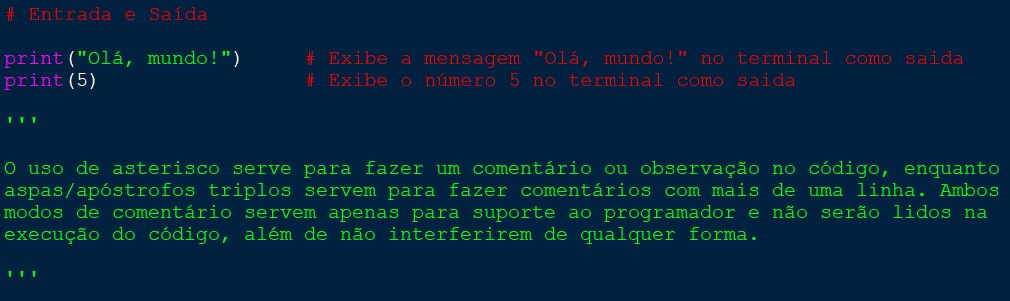
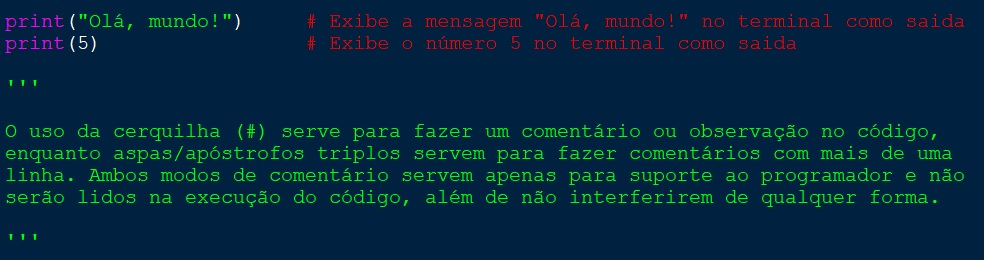
versão teste

diff --git a/code/resumo.py b/code/resumo.py
@@ -9,10 +9,10 @@ print(5)                 # Exibe o número 5 no terminal como saida
 
 '''
 
-O uso de asterisco serve para fazer um comentário ou observação no código, enquanto
-aspas/apóstrofos triplos servem para fazer comentários com mais de uma linha. Ambos
-modos de comentário servem apenas para suporte ao programador e não serão lidos na
-execução do código, além de não interferirem de qualquer forma.
+O uso da cerquilha (#) serve para fazer um comentário ou observação no código,
+enquanto aspas/apóstrofos triplos servem para fazer comentários com mais de uma
+linha. Ambos modos de comentário servem apenas para suporte ao programador e não
+serão lidos na execução do código, além de não interferirem de qualquer forma.
 
 '''
 

diff --git a/code/connect.php b/code/connect.php
@@ -2,7 +2,7 @@
 
 	$host = '127.0.0.1';
 	$bd = 'teste';
-	$usuariobd = 'root';
+	$userbd = 'root';
 	$senhabd = '';
 
 	$nome = $_POST['nome'] ?? "";
@@ -31,7 +31,7 @@
 		echo "A conexão foi estabelecida com o banco de dados";
 	}else{
 		echo "Erro de conexão com o banco de dados";
-	}	
+	}
 
 	/*
 	if (!$conexao)
